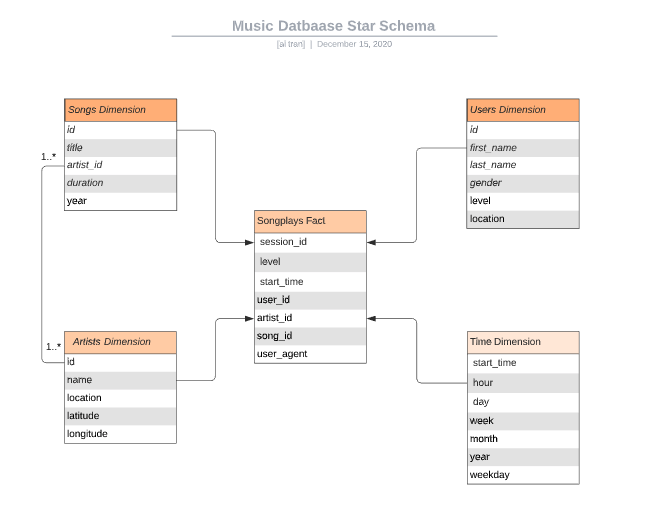
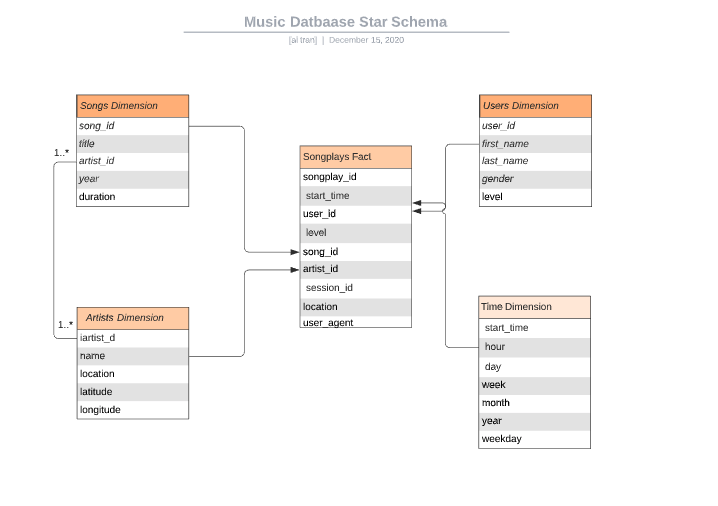
Update documentation and sql scripts

Changed region(s): [[0.339, 0.1779, 0.8937, 0.9486], [0.0616, 0.1779, 0.339, 0.8597], [0.2465, 0.0296, 0.7704, 0.0889]]

diff --git a/data-modeling/etl-pipeline/README.md b/data-modeling/etl-pipeline/README.md
@@ -1,11 +1,16 @@
 # Music Database for Song Play Analysis
 
-This repo contains python modules and utility shell scripts that automate the ETL workflow pipeline for transfering music song and log datasets from json files into a PostgreSQL database for song play analysis.
+This repo contains python modules and utility shell scripts that automate the 
+ETL workflow pipeline for transfering music song and log datasets from json 
+files into a PostgreSQL database for song play analysis.
 
 The json data files come in two datasets:
 
 ### Song Dataset
-The song dataset is a subset of real data from the [Million Song Dataset](http://millionsongdataset.com/). Each file is in JSON format and contains metadata about a song and the artist of that song. The files are partitioned by the first three letters of each song's track ID. For example, here are filepaths to two files in this dataset.
+The song dataset is a subset of real data from the [Million Song Dataset](http://millionsongdataset.com/). 
+Each file is in JSON format and contains metadata about a song and the artist 
+of that song. The files are partitioned by the first three letters of each song's 
+track ID. For example, here are filepaths to two files in this dataset.
 
 ```
 song_data/A/B/C/TRABCEI128F424C983.json
@@ -18,9 +23,13 @@ And below is an example of what a single song file, TRAABJL12903CDCF1A.json, loo
 ```
 
 ### Log Dataset
-The second database consists of log files in JSON format generated by this [event simulator](https://github.com/Interana/eventsim) based on the songs in the dataset above. These simulate activity logs from a music streaming app based on specified configurations.
+The second database consists of log files in JSON format generated by this 
+[event simulator](https://github.com/Interana/eventsim) based on the songs 
+in the dataset above. These simulate activity logs from a music streaming app 
+based on specified configurations.
 
-The log files in the dataset are partitioned by year and month. For example, here are filepaths to two files in this dataset.
+The log files in the dataset are partitioned by year and month. For example, 
+here are filepaths to two files in this dataset.
 
 ```
 log_data/2018/11/2018-11-12-events.json
@@ -31,23 +40,34 @@ And below is an example of what the data in a log file, 2018-11-12-events.json, 
 
 ![log-data](log-data.png)
 
-The ETL python module or the bulk-import script can be used to import the data contained in these json files into a Postgresql database, which can be used for queries to analysis song play
+The ETL python module or the bulk-import script can be used to import the data 
+contained in these json files into a Postgresql database, which can be used for queries to analysis song play
 
 
 ## Star Schema for Music Database
 
-To facility song play analysis, the music PostgreSQL database based on a star schema is created to store the imported song and log data.
+To facility song play analysis, the music PostgreSQL database based on a star 
+schema is created to store the imported song and log data.
 
-The database schema includes the `songplays` fact table and four dimension tables that are linked by the primary keys defined in the dimenion tables.
+The database schema includes the `songplays` fact table and four dimension tables 
+that are linked by the primary keys defined in the dimenion tables.
 
-Users' listening sessions data is stored in the `songplays` fact table.  This table only contains the primary key for the song, artist, user, and timestamp in each entry.  Metadata such as song title or artist's or user's name, etc. can be queried by joining the fact table with the respective dimension tables using these primary keys.
+Users' listening sessions data is stored in the `songplays` fact table.  This 
+table only contains the primary key for the song, artist, user, and timestamp 
+in each entry.  Metadata such as song title or artist's or user's name, etc. 
+can be queried by joining the fact table with the respective dimension tables 
+using these primary keys.
 
 ![star-schema](star-schema.png)
 
-Below is brief description of the fact and dimentions tables of the star schema created that is optimized for queries on song play analysis.
+Below is brief description of the fact and dimentions tables of the star 
+schema created that is optimized for queries on song play analysis.
 
 ### Fact Table
-1. songplays - records in log data associated with song plays.  This table contain the session information, with referential key for specific user, song played, and the song's artist linked to the `users`, `songs`, `artists`, and `time` tables, respectively.
+1. songplays - records in log data associated with song plays.  This table 
+contains the session information, with referential key for specific user, 
+song played, and the song's artist linked to the `users`, `songs`, `artists`, 
+and `time` tables, respectively.
 
 ### Dimension Tables
 1. users - users captured from log dataset
@@ -55,21 +75,33 @@ Below is brief description of the fact and dimentions tables of the star schema 
 3. artists - artists in music database
 5. time - timestamps of records in `songplays` broken down into specific units
 
-Each dimension table has a primary key which is used to join with the `songplays` fact table for getting more detail information about the song(s), the artist(s), the user(s), and/or relevant time related to the listening session.
+Each dimension table has a primary key which is used to join with the 
+`songplays` fact table for getting more detail information about the 
+song(s), the artist(s), the user(s), and/or relevant time related to 
+the listening session.
 
 ## ETL Pipeline Workflow
 
 
-The data ETL workflow uses different technique to import the data dependent on the size of the datasets.  Each technique is described below.
+The data ETL workflow uses different technique to import the data dependent 
+on the size of the datasets.  Each technique is described below.
 
 ### Working with small datasets
-A dockerized environment with postgresql database is setup to load music data into an independent  music database with ease.  A Makefile is provided in the `docker` directory that can use to either run individual commands as needed or `make all` to perform the entire ETL pipeline.
+A dockerized environment with postgresql database is setup to load music data 
+into an independent  music database with ease.  A Makefile is provided in 
+the `docker` directory that can use to either run individual commands as needed 
+or `make all` to perform the entire ETL pipeline.
 
-This method is suited for importing small datasets into the database. This is due to the fact that the ETL python module is written to traverse the log and song directories and process the json file by file, which can take a few minutes.
-Please refer to the `Working with large datasets` section for faster method of importing data using COPY command avaiable in Postgresql.
+This method is suited for importing small datasets into the database. This 
+is due to the fact that the ETL python module is written to traverse the log 
+and song directories and process the json file by file, which can take a few minutes.
+
+Please refer to the `Working with large datasets` section for faster 
+method of importing data using COPY command avaiable in Postgresql.
 
 
-To run the entire ETL pipeline, at the project root directory `etl-pipeline`, type the followings:
+To run the entire ETL pipeline, at the project root directory `etl-pipeline`, 
+type the followings:
 
 Download this repo to local machine, and go to the `data-modeling`
 ```
@@ -87,7 +119,7 @@ $ cd docker
 $ make all
 ```
 
-The make `all` target performs the following tasks:
+The `all` make target performs the following tasks:
 1. shut down the docker posrgresl (and cassandra) container, and remove it
 2. start up a new postgresql container
 3. create the student role (with appropriate privileges granted) and default database
@@ -96,9 +128,12 @@ The make `all` target performs the following tasks:
 6. run sql scripts to verify data is imported into the table as expected.  
 
 ### Working with large datasets
-For larger datasets, Postgresql database provides the COPY command that can be used for fast batch importing data into the database.
+For larger datasets, Postgresql database provides the COPY command that
+can be used for fast batch importing data into the database.
 
-A couple of shell scripts are provided for kick off the data import and ETL processing with SQL scripts. At the project root directory `etl-pipeline`, type the followings:
+A couple of shell scripts are provided for kick off the data import and 
+ETL processing with SQL scripts. At the project root directory 
+`etl-pipeline`, type the followings:
 ```
 $ cd etl-pipeline/bin
 $ sh bulk-import.sh ../data/log_data log_data
@@ -106,9 +141,13 @@ $ sh bulk-import.sh ../data/song_data song_data
 $ sh extract_and_verify.sh 
 ```
 
-The `bulk-import` shell script reads in the content of the json files and invoke the COPY command provided by postgresl to import the json content the given table name
+The `bulk-import` shell script reads in the content of the json files and 
+invoke the COPY command provided by postgresl to import the json content 
+the given table name
 
-The `extract` shell script then run ETL SQL scripts to extract songs, artists, users and songplays data from the holding table into their own tables as described in above star schema for the database.
+The `extract_and_verify` shell script then run ETL SQL scripts to extract 
+songs, artists, users and songplays data from the holding table into their 
+own tables as described in above star schema for the database.
 
 ## Sample Queries
 
